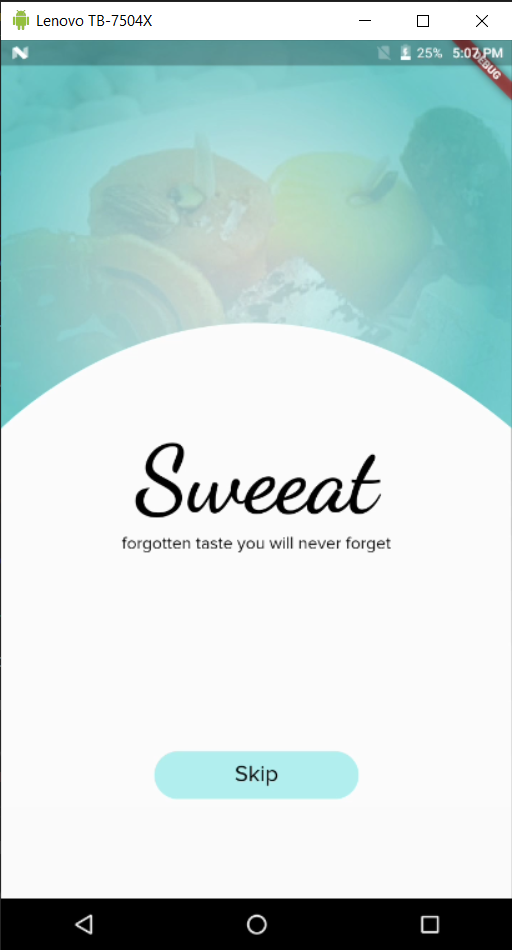
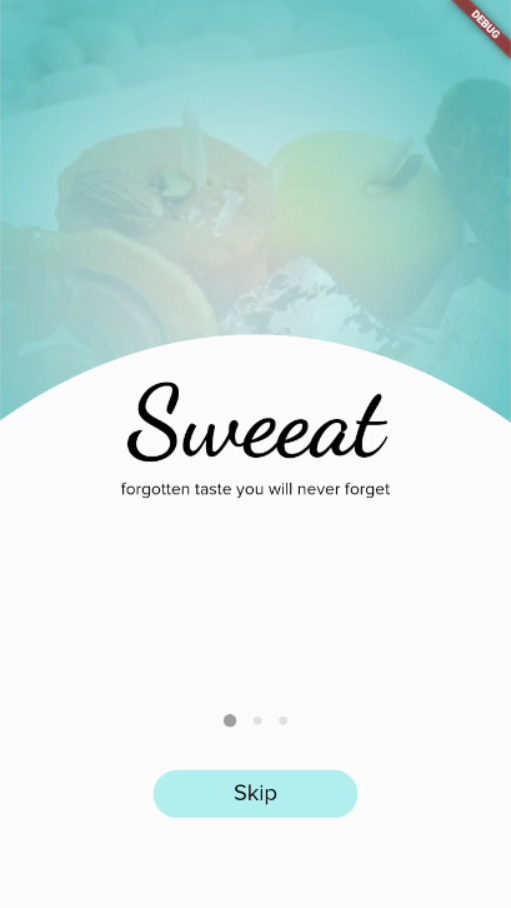
Updated Readme.md

diff --git a/README.md b/README.md
@@ -8,7 +8,10 @@ This project is for our Design Engineering subject.
 
 ## Screenshots
 
-- Home Screen
-  ![alt](./screenshots/home_screen.png)
+### Onboarding Screens
+
+![alt](./screenshots/onboarding_1.png)
+![alt](./screenshots/onboarding_2.png)
+![alt](./screenshots/onboarding_3.png)
 
 `⚠ NOTE: This project is under development.`
